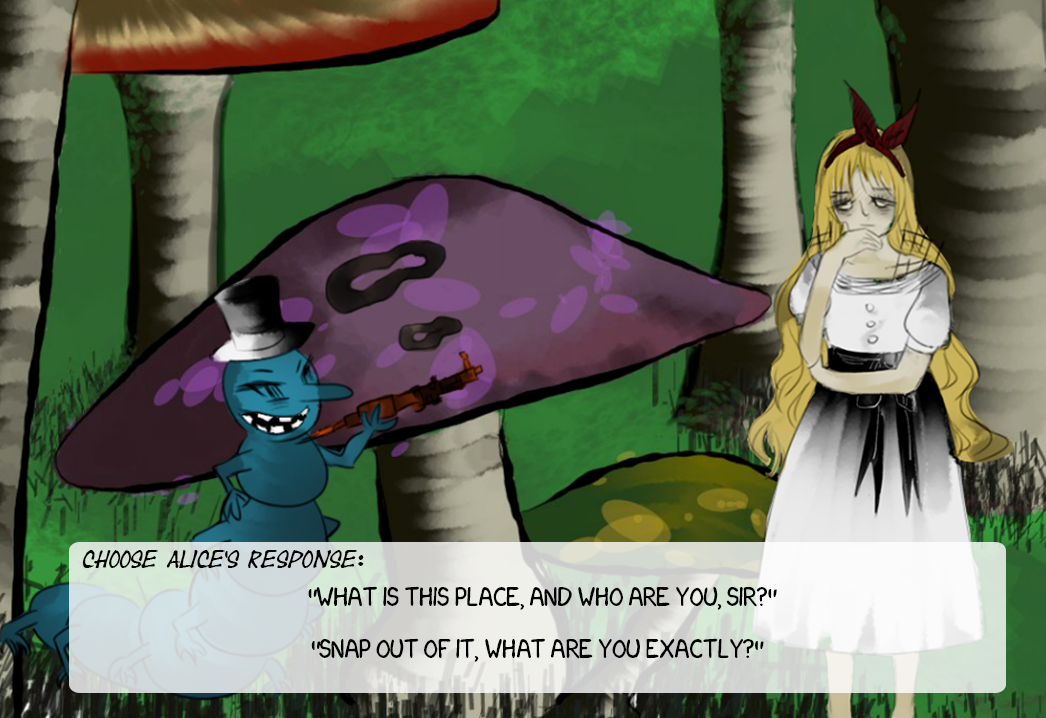
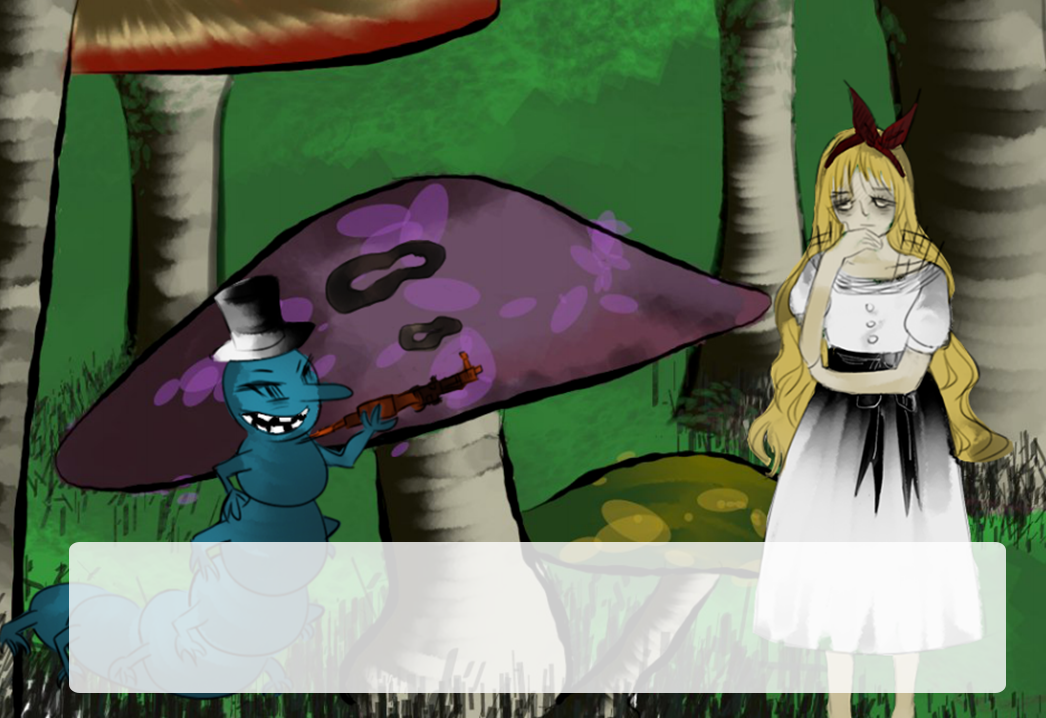
add option style

Changed region(s): [[0.0612, 0.766, 0.7342, 0.8579], [0.3059, 0.8886, 0.7342, 0.9192]]

diff --git a/alice_10.html b/alice_10.html
@@ -13,7 +13,21 @@
 <body>
 	<div id="container" style="text-align:center">
 		<h1 class="title">- Alice In Wonderland -</h1>
-		<a href="alice_11.html"><img src="images/10.png" style="width:70%"></a>
+		<img src="images/10.png" style="width:70%">
+		<p class="choose_response">CHOOSE ALICE'S RESPONSE:</p>
+		<div id="responses">
+			<p class="response-1">"WHAT IS THIS PLACE, AND WHO ARE YOU, SIR?"</p>
+			<p class="response-2">"SNAP OUT OF IT, WHAT ARE YOU EXACTLY?"</p>
+		</div>
 	</div>
 </body>
+
+<script type="text/javascript">
+	$(".response-1").click(function() {
+		chooseOption(0, 11);
+	});
+	$(".response-2").click(function() {
+		chooseOption(0, 11);
+	});
+</script>
 </html>

diff --git a/js/script.js b/js/script.js
@@ -1,5 +1,6 @@
 var animate;
 var animated = false;
+var dreamValue = 0;
 function animateCover() {
 	if (animated == false) {
 		animated = true;
@@ -22,6 +23,19 @@ function moveAlice(speed, total, round) {
 		clearInterval(animate);
 		window.location.href = "alice_2.html";
 	}
+}
+
+function chooseOption(value, panel) {
+	changeDreamValue(value);
+	goToNextPanel(panel);
+}
+
+function changeDreamValue(value) {
+	dreamValue +=value;
+}
+
+function goToNextPanel(panel) {
+	window.location.href = "alice_" + panel + ".html";
 }
 
 function visitRight() {

diff --git a/css/style.css b/css/style.css
@@ -16,6 +16,40 @@
 	cursor: hand;
 }
 
+.choose_response {
+	position: absolute;
+	top: 68%;
+	margin-top: 5%;
+	left: 21%;
+	font-size: 23px;
+}
+
+.response-1 {
+	cursor: hand;
+	position: absolute;
+	top: 73%;
+	margin-top: 5%;
+	width: 100%;
+	left: auto;
+	right: auto;
+	font-size: 20px;
+}
+
+.response-1:hover, .response-2:hover {
+	color: blue;
+}
+
+.response-2 {
+	cursor: hand;
+	position: absolute;
+	top: 78%;
+	margin-top: 5%;
+	width: 100%;
+	left: auto;
+	right: auto;
+	font-size: 20px;
+}
+
 #alice {
 	position: absolute;
 	right: 18%;
